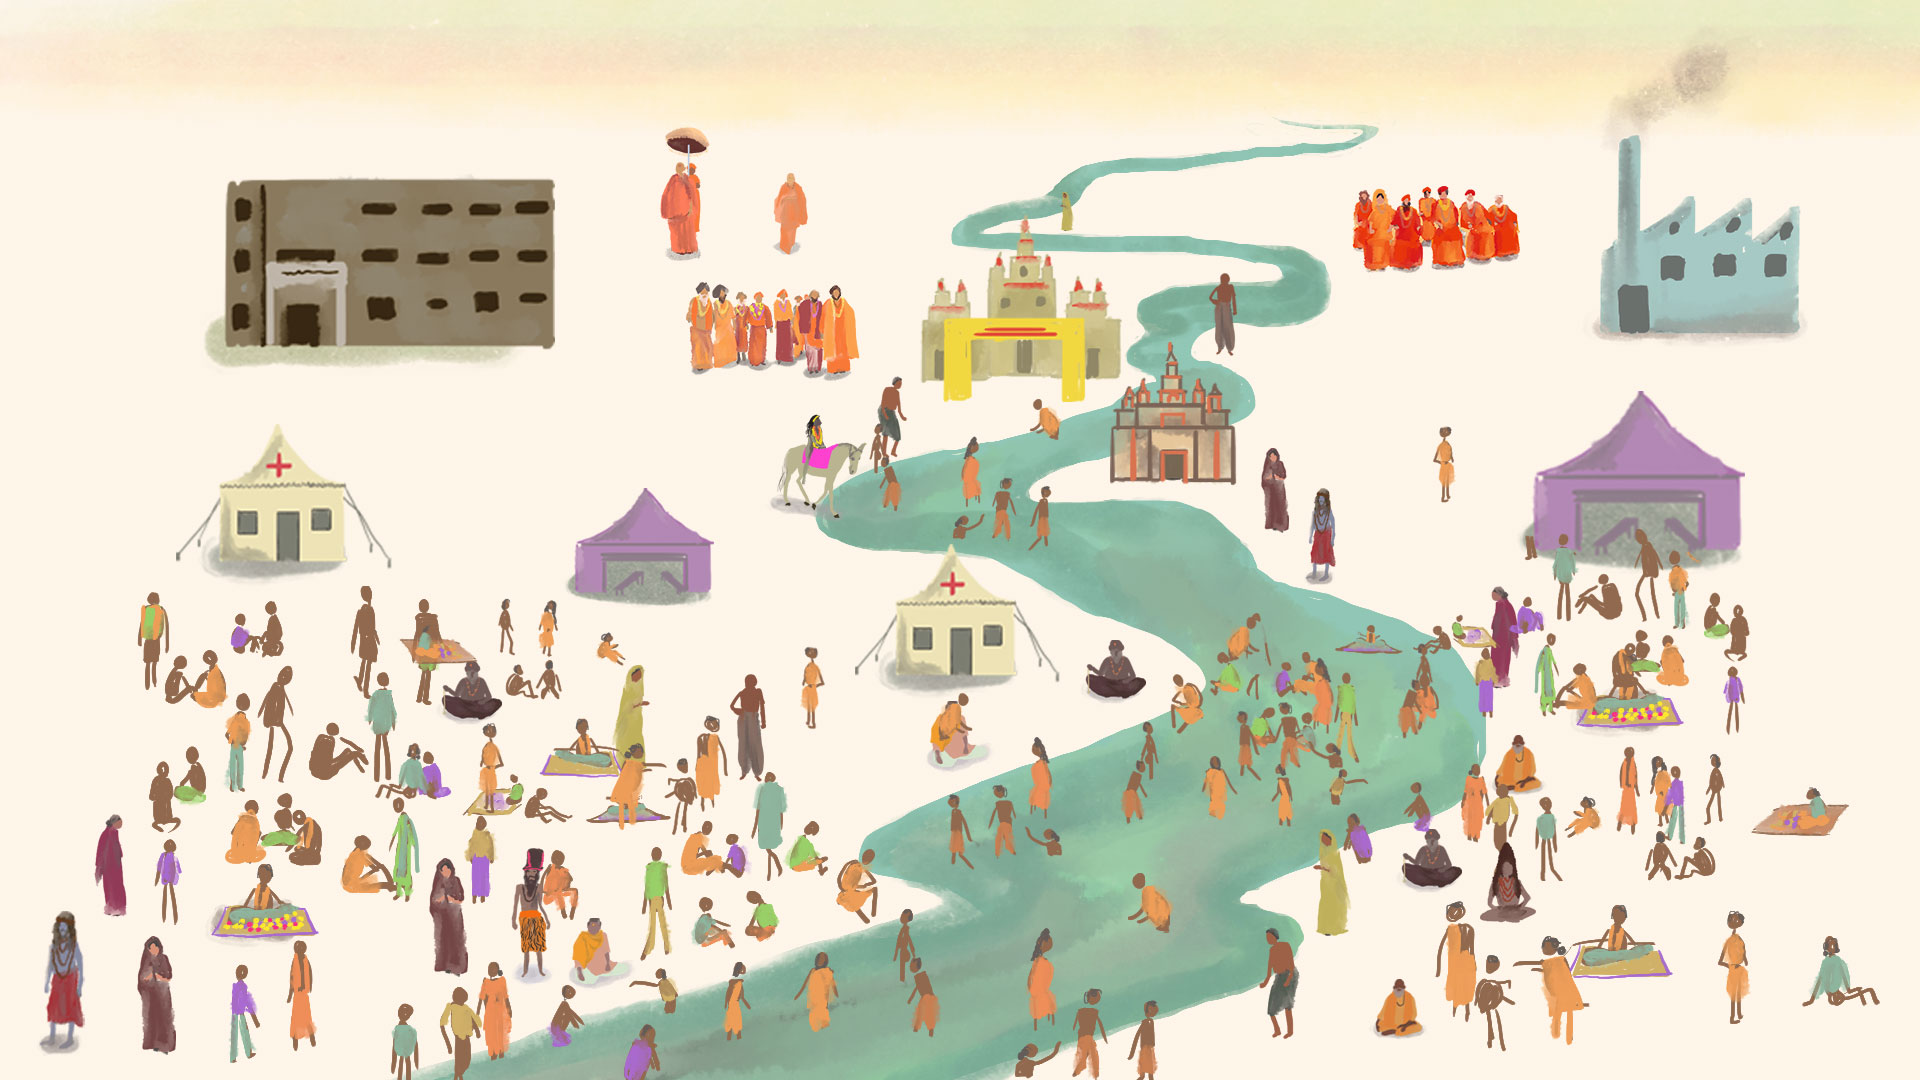
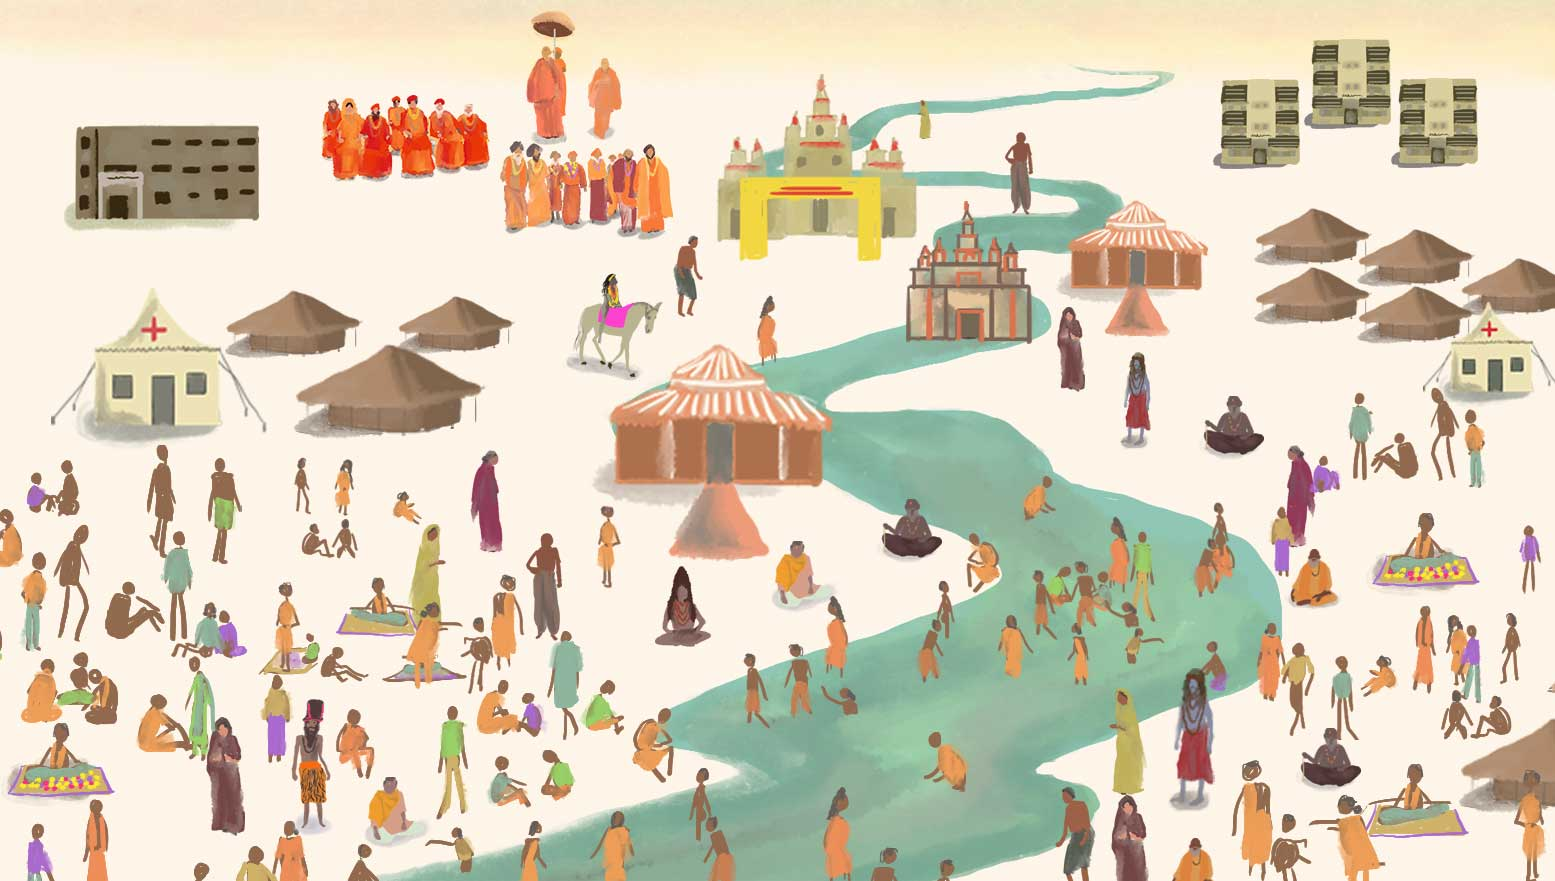
Added lorem ipsum

diff --git a/src/lib/power.svelte b/src/lib/power.svelte
@@ -121,18 +121,24 @@ createObserver(topTrigger, (val) => (isOverlayAVisible = val));
     who constitute the base of this hierarchical structure.
   </p>
 </section>
-<!-- ✦ Main Illustration SECTION: Sequential Image Overlays on Scroll -->
+<!-- ✦ Key stakeholders -->
 <section class="relative col-span-full h-[900vh] ">
   <div class="sticky top-0 h-screen overflow-hidden z-10">
-    <h5
-      class="absolute top-6 left-1/2 transform -translate-x-1/2 text-2xl md:text-4xl font-semibold z-20"
-    >
-      Stakeholders and their Interactions
-    </h5>
+
+    <div class="flex flex-col lg:flex-row items-center justify-center h-full px-4 md:px-10 gap-8">
+    <!-- Right: Text Content -->
+      <div class="lg:w-1/4 text-left z-20">
+        <h5 class="text-xl md:text-3xl lg:text-4xl font-semibold mb-4">
+          Stakeholders
+        </h5>
+        <p class="text-sm md:text-base lg:text-lg">
+          Lorem ipsum dolor sit amet, consectetur adipisicing elit. Asperiores ullam, eveniet rerum laudantium libero nostrum vitae ab similique enim blanditiis error quod eligendi, distinctio autem accusamus, repellat ducimus repudiandae pariatur.
+        </p>
+      </div>
     <img
       src={`${base}/Main/Main-illustration.jpg`}
       alt="Spiritual and economic relationships"
-      class="w-full h-full object-cover z-0"
+      class="w-full lg:w-3/4 h-auto object-contain mt-10 lg:mt-0"
     />
 
     <!-- Overlay: Top -->
@@ -198,6 +204,7 @@ createObserver(topTrigger, (val) => (isOverlayAVisible = val));
     >
       <p class="text-base leading-relaxed">{overlayExplainerTexts[3]}</p>
     </div>
+    </div>
   </div>
 
   <!-- Scroll triggers -->
@@ -218,17 +225,47 @@ createObserver(topTrigger, (val) => (isOverlayAVisible = val));
     class="absolute top-[500vh] h-[10vh] w-full"
   ></div>
 </section>
-
-
-
-<!-- ✦ SECTION: Sequential Image Overlays on Scroll -->
-<section class="relative col-span-full h-[900vh] ">
+<!-- ✦ Spiritual and economic relationships -->
+<section class="relative col-span-full h-screen">
   <div class="sticky top-0 h-screen overflow-hidden z-10">
-    <h5
-      class="absolute top-6 left-1/2 transform -translate-x-1/2 text-2xl md:text-4xl font-semibold z-20"
-    >
+    <div class="flex flex-col lg:flex-row items-center justify-center h-full px-4 md:px-10 gap-8">
+
+      <!-- Left: Image -->
+      <img
+        src={`${base}/Pyramid/Main-illustration.png`}
+        alt="Background"
+        class="w-full lg:w-3/4 h-auto object-contain mt-10 lg:mt-0"
+      />
+
+      <!-- Right: Text Content -->
+      <div class="lg:w-1/4 text-left z-20">
+        <h5 class="text-xl md:text-3xl lg:text-4xl font-semibold mb-4">
+          Spiritual and economic relationships
+        </h5>
+        <p class="text-sm md:text-base lg:text-lg">
+          Lorem ipsum dolor sit amet, consectetur adipisicing elit. Asperiores ullam, eveniet rerum laudantium libero nostrum vitae ab similique enim blanditiis error quod eligendi, distinctio autem accusamus, repellat ducimus repudiandae pariatur.
+        </p>
+      </div>
+
+    </div>
+  </div>
+</section>
+
+
+<!-- ✦ SECTION: Pyramid -->
+<section class="relative col-span-full h-[900vh]">
+  <div class="sticky top-0 h-screen overflow-hidden z-10">
+    
+    
+    <!-- Title -->
+    <h5 class="absolute top-6 left-1/2 transform -translate-x-1/2 text-xl md:text-3xl lg:text-4xl font-semibold z-20 text-center px-4">
       Permeating Power
     </h5>
+ <!-- Subheading -->
+    <p class="absolute top-20 left-1/2 transform -translate-x-1/2 text-base text-left px-4 max-w-xl z-20">
+      Lorem ipsum dolor sit amet, consectetur adipiscing elit. Nulla facilisi. Sed viverra, sapien a hendrerit blandit, enim elit ultrices urna, ac dignissim risus lorem ac neque.
+    </p>
+    <!-- Background image -->
     <img
       src={`${base}/Power-mappings.png`}
       alt="Power relationships"
@@ -244,11 +281,11 @@ createObserver(topTrigger, (val) => (isOverlayAVisible = val));
       class:opacity-100={isOverlayTopVisible}
     />
     <div
-      class="absolute top-1/4 right-12 md:right-24 w-1/3 bg-[#c4b2a9] backdrop-blur-lg rounded p-6 md:p-8 shadow-lg z-20 fade"
+      class="absolute top-1/4 right-4 md:right-10 lg:right-20 w-11/12 sm:w-4/5 md:w-1/2 lg:w-1/3 max-w-md bg-[#f1efe2] backdrop-blur-lg rounded p-4 md:p-6 shadow-sm z-20 fade"
       class:opacity-0={!isOverlayTopVisible}
       class:opacity-100={isOverlayTopVisible}
     >
-      <p class="text-base leading-relaxed">{overlayTexts[0]}</p>
+      <p class="text-sm md:text-base leading-relaxed">{overlayTexts[0]}</p>
     </div>
 
     <!-- Overlay: Second -->
@@ -260,11 +297,11 @@ createObserver(topTrigger, (val) => (isOverlayAVisible = val));
       class:opacity-100={isOverlaySecondVisible}
     />
     <div
-      class="absolute top-1/4 right-12 md:right-24 w-1/3 bg-[#c4b2a9] backdrop-blur-lg rounded p-6 md:p-8 shadow-lg z-20 fade"
+      class="absolute top-1/4 right-4 md:right-12 lg:right-24 w-11/12 sm:w-4/5 md:w-1/2 lg:w-1/3 max-w-md bg-[#c4b2a9] backdrop-blur-lg rounded p-4 md:p-6 shadow-lg z-20 fade"
       class:opacity-0={!isOverlaySecondVisible}
       class:opacity-100={isOverlaySecondVisible}
     >
-      <p class="text-base leading-relaxed">{overlayTexts[1]}</p>
+      <p class="text-sm md:text-base leading-relaxed">{overlayTexts[1]}</p>
     </div>
 
     <!-- Overlay: Third -->
@@ -276,11 +313,11 @@ createObserver(topTrigger, (val) => (isOverlayAVisible = val));
       class:opacity-100={isOverlayThirdVisible}
     />
     <div
-      class="absolute top-1/4 right-12 md:right-24 w-1/3 bg-[#c4b2a9] backdrop-blur-lg rounded p-6 md:p-8 shadow-lg z-20 fade"
+      class="absolute top-1/4 right-4 md:right-12 lg:right-24 w-11/12 sm:w-4/5 md:w-1/2 lg:w-1/3 max-w-md bg-[#c4b2a9] backdrop-blur-lg rounded p-4 md:p-6 shadow-lg z-20 fade"
       class:opacity-0={!isOverlayThirdVisible}
       class:opacity-100={isOverlayThirdVisible}
     >
-      <p class="text-base leading-relaxed">{overlayTexts[2]}</p>
+      <p class="text-sm md:text-base leading-relaxed">{overlayTexts[2]}</p>
     </div>
 
     <!-- Overlay: Bottom -->
@@ -292,39 +329,44 @@ createObserver(topTrigger, (val) => (isOverlayAVisible = val));
       class:opacity-100={isOverlayBottomVisible}
     />
     <div
-      class="absolute top-1/4 right-12 md:right-24 w-1/3 bg-[#c4b2a9] backdrop-blur-lg rounded p-6 md:p-8 shadow-lg z-20 fade"
+      class="absolute top-1/4 right-4 md:right-12 lg:right-24 w-11/12 sm:w-4/5 md:w-1/2 lg:w-1/3 max-w-md bg-[#c4b2a9] backdrop-blur-lg rounded p-4 md:p-6 shadow-lg z-20 fade"
       class:opacity-0={!isOverlayBottomVisible}
       class:opacity-100={isOverlayBottomVisible}
     >
-      <p class="text-base leading-relaxed">{overlayTexts[3]}</p>
+      <p class="text-sm md:text-base leading-relaxed">{overlayTexts[3]}</p>
     </div>
   </div>
 
   <!-- Scroll triggers -->
-  <div
-    bind:this={topTrigger}
-    class="absolute top-[200vh] h-[10vh] w-full"
-  ></div>
-  <div
-    bind:this={secondTrigger}
-    class="absolute top-[300vh] h-[10vh] w-full"
-  ></div>
-  <div
-    bind:this={thirdTrigger}
-    class="absolute top-[400vh] h-[10vh] w-full"
-  ></div>
-  <div
-    bind:this={bottomTrigger}
-    class="absolute top-[500vh] h-[10vh] w-full"
-  ></div>
+  <div bind:this={topTrigger} class="absolute top-[200vh] h-[10vh] w-full"></div>
+  <div bind:this={secondTrigger} class="absolute top-[300vh] h-[10vh] w-full"></div>
+  <div bind:this={thirdTrigger} class="absolute top-[400vh] h-[10vh] w-full"></div>
+  <div bind:this={bottomTrigger} class="absolute top-[500vh] h-[10vh] w-full"></div>
 </section>
 
-<section class = "relative col-span-full h-screen">
+
+<section class="relative col-span-full h-screen">
   <div class="sticky top-0 h-screen overflow-hidden z-10">
-    <img
-      src={`${base}/Institutional-framework.png`}
-      alt="Background"
-      class="w-[70%] mx-10 mt-20 h-auto object-contain">
+    <div class="flex flex-col lg:flex-row items-center justify-center h-full px-4 md:px-10 gap-8">
+
+      <!-- Left: Image -->
+      <img
+        src={`${base}/Institutional-framework.png`}
+        alt="Background"
+        class="w-full lg:w-2/3 h-auto object-contain mt-10 lg:mt-0"
+      />
+
+      <!-- Right: Text Content -->
+      <div class="lg:w-1/3 text-left z-20">
+        <h5 class="text-xl md:text-3xl lg:text-4xl font-semibold mb-4">
+          Institutional Framework
+        </h5>
+        <p class="text-sm md:text-base lg:text-lg">
+          Lorem ipsum dolor sit amet, consectetur adipisicing elit. Asperiores ullam, eveniet rerum laudantium libero nostrum vitae ab similique enim blanditiis error quod eligendi, distinctio autem accusamus, repellat ducimus repudiandae pariatur.
+        </p>
+      </div>
+
+    </div>
   </div>
 </section>
 
